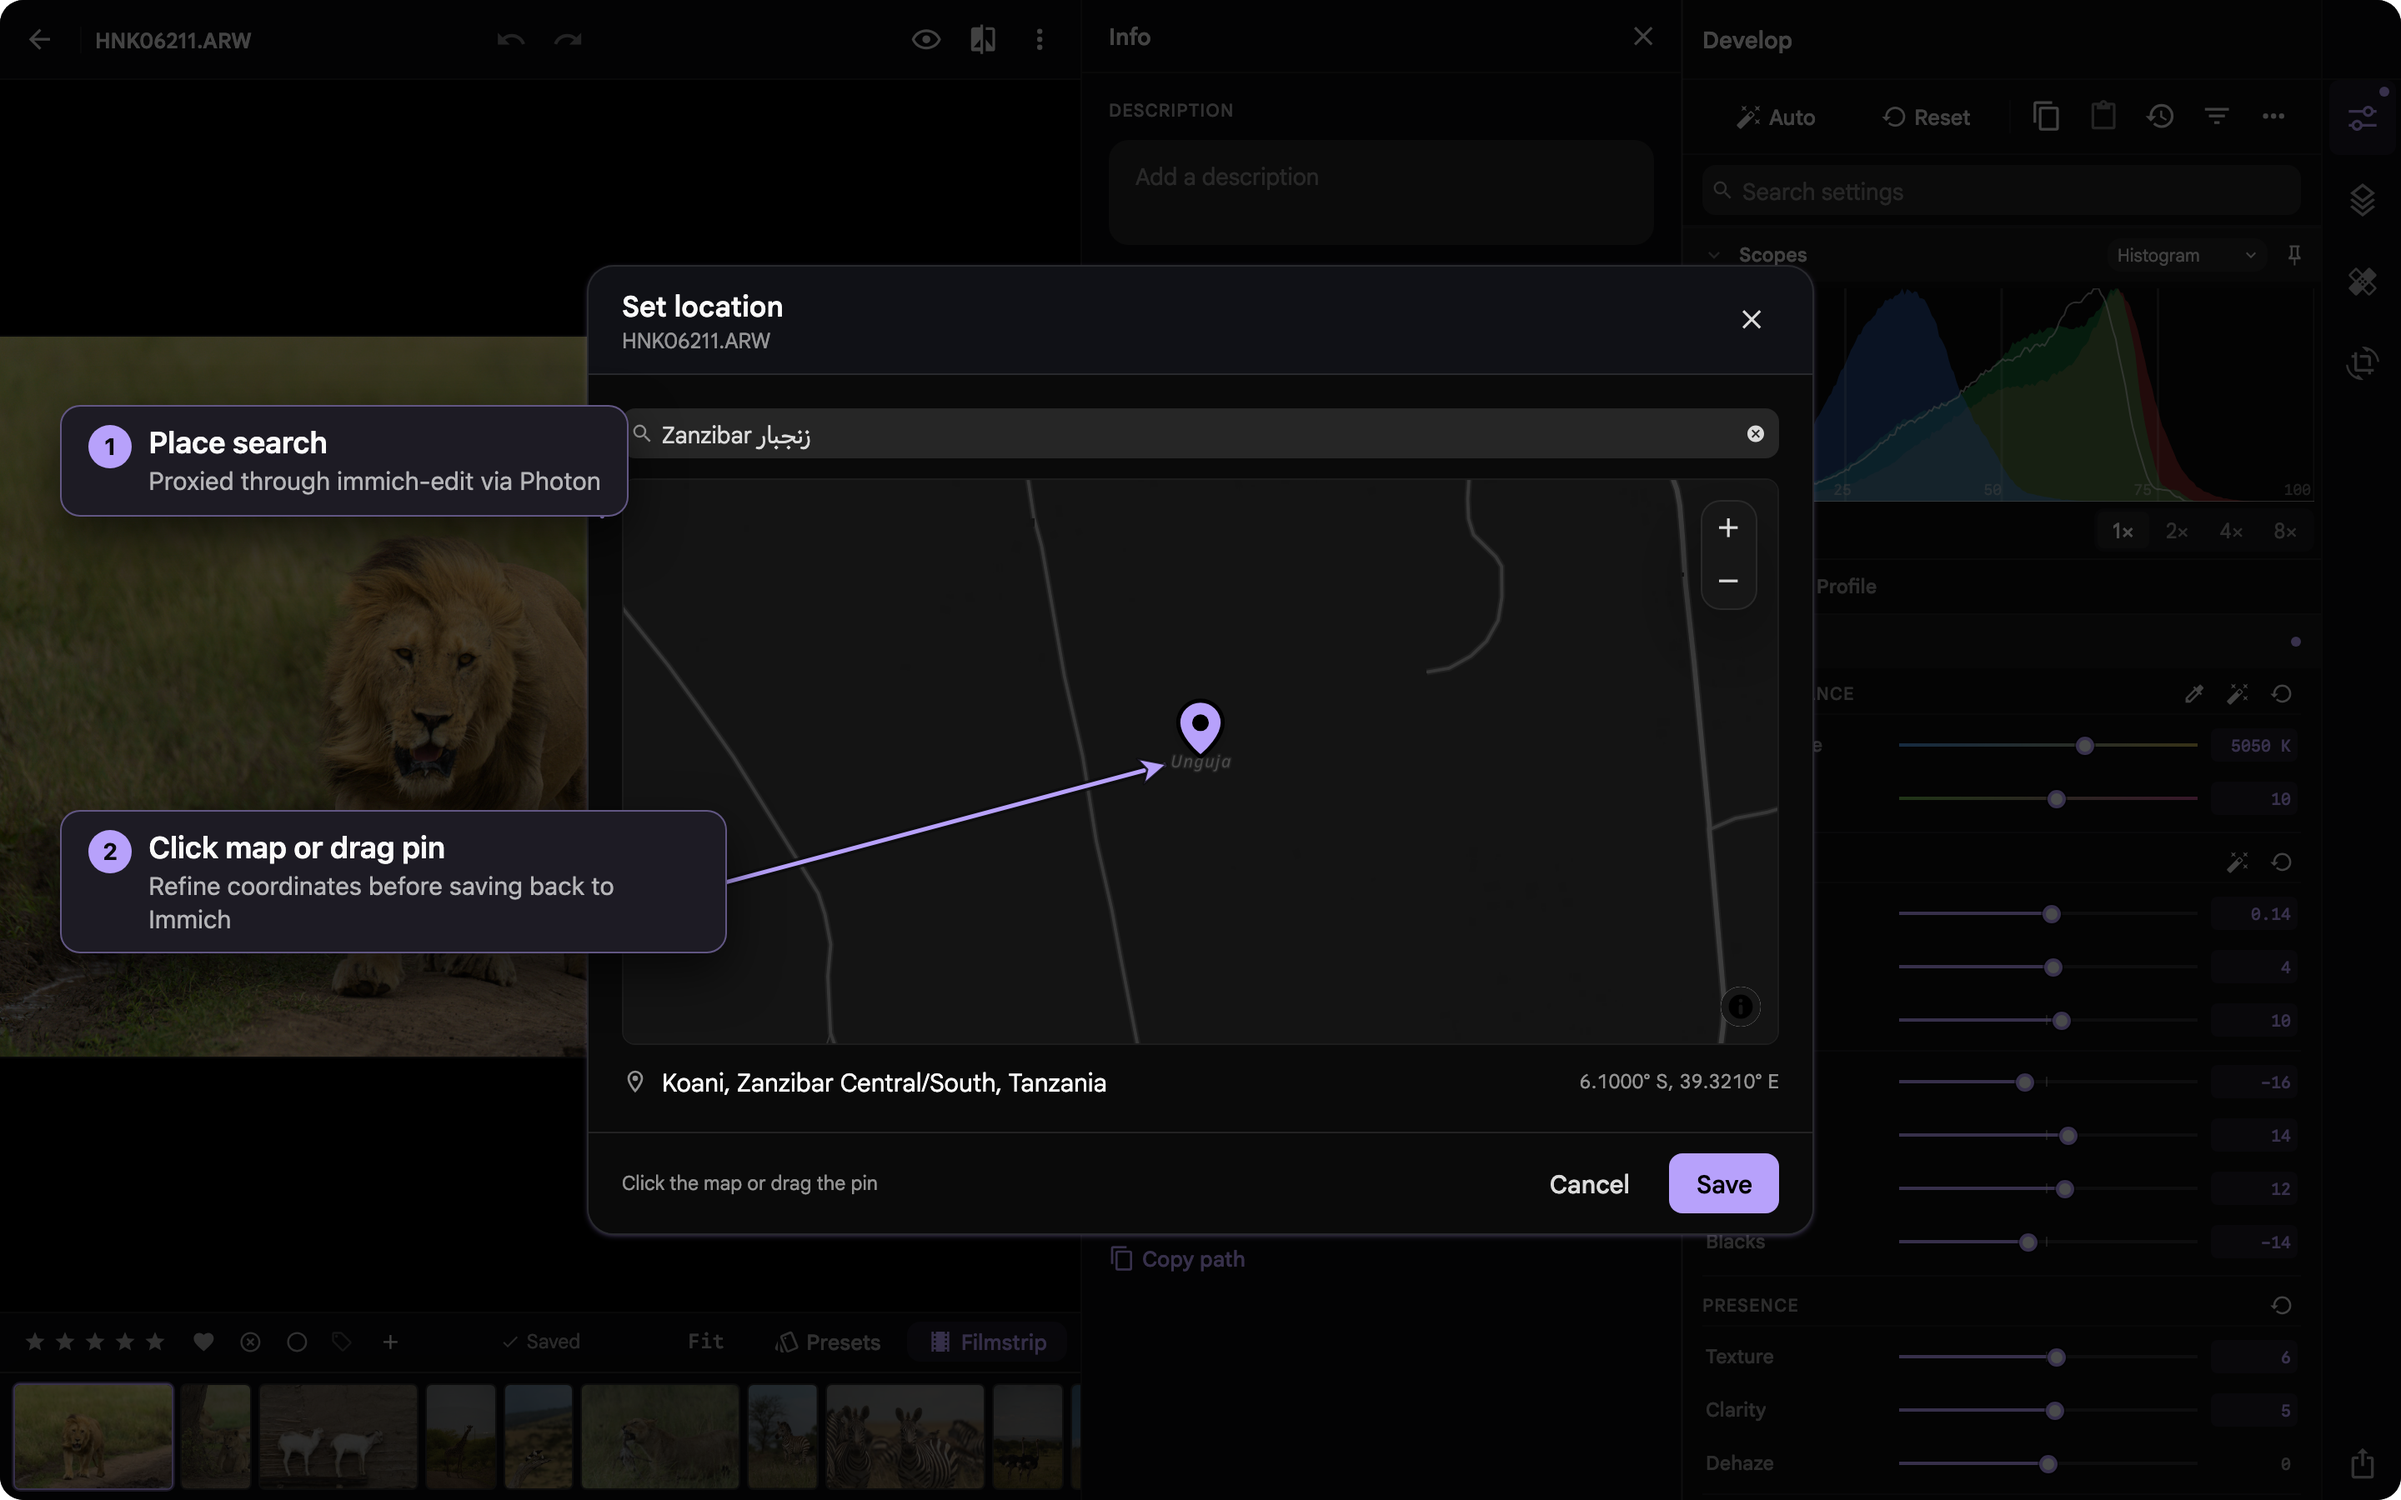
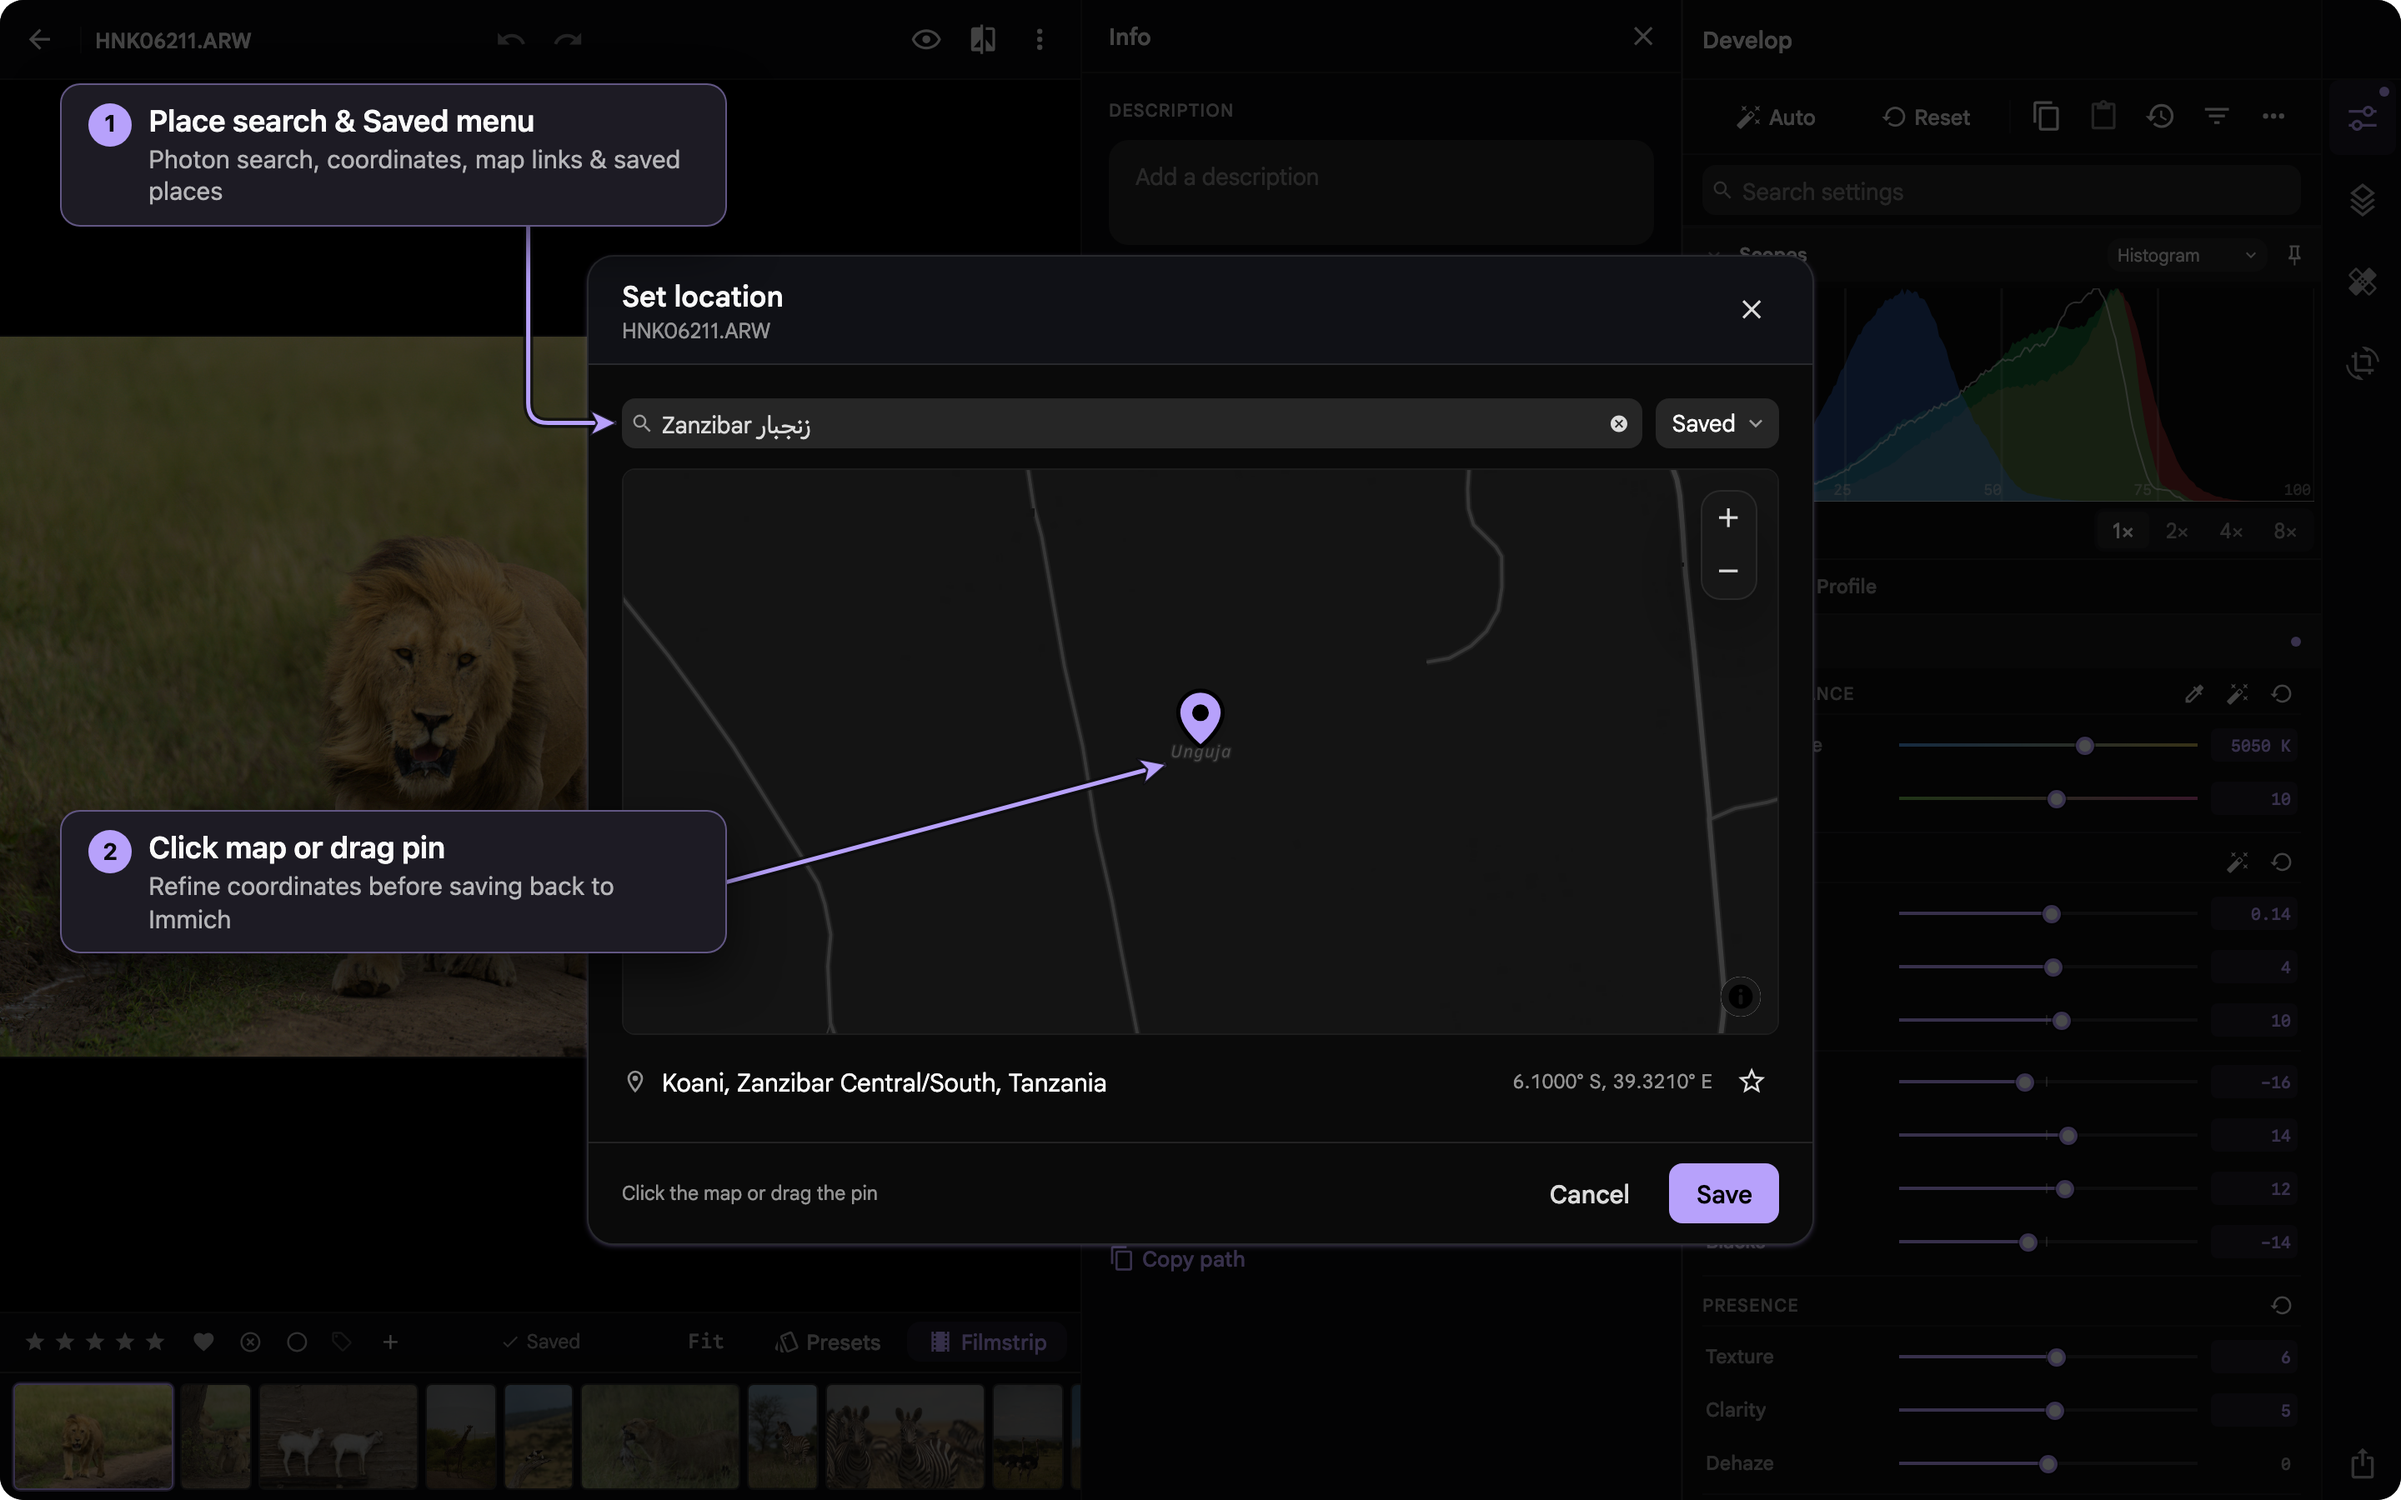
docs: update map guide and add track shot

diff --git a/docs/src/content/docs/editing/map.md b/docs/src/content/docs/editing/map.md
@@ -1,25 +1,24 @@
 ---
 title: Map and geotagging
-description: Browse geotagged photos on a map and set or move photo locations.
+description: Explore geotagged photos, save places, and match shoots to GPX, KML, or TCX tracks.
 ---
 
-Open **Map** from the sidebar (under **Library** > **Collections** on phones) to explore your
-geotagged library and assign missing locations.
+Open **Map** from the sidebar (under **Library** > **Collections** on phones) to browse geotagged
+photos, manage saved places, and assign missing locations.
 
 ## Browse the map
 
 - Clusters expand into individual photo markers as you zoom in.
-- Filter the map by **Favorites** and date range, or select **Fit all** to frame every matching
-  marker.
-- On desktop and landscape tablets, the side panel lists photos in the current map view; on phones
-  and portrait tablets, drag the bottom sheet up to browse them.
+- Filter by **Favorites** and date range, or select **Fit all** to frame every matching marker.
+- On desktop and landscape tablets, the side panel lists photos in view, unplaced photos, and saved
+  places; on phones and portrait tablets, tap the floating pill at the bottom to open them.
 - Open any photo in the loupe or editor and return directly to your map position.
 
 <!-- SCREENSHOT: capture.cjs map-desktop + compose.cjs map-desktop -->
 ![Desktop map view with date filter, photo clusters, and photos-in-view panel](../../../assets/shots/map-desktop.png)
 
 <!-- SCREENSHOT: capture.cjs map-phone + compose.cjs map-phone -->
-![Phone map view with clusters and expandable bottom sheet](../../../assets/shots/map-phone.png)
+![Phone map view with clusters and floating photos-in-view pill](../../../assets/shots/map-phone.png)
 
 ## Set or move locations
 
@@ -29,51 +28,52 @@ in bulk, so a location can be moved but not removed):
 - **Single photo**: open **Photo info** (`I`) to see the mini map, then choose **Set location** or
   **Edit location**. Search by place name or drag the pin, then select **Save**.
 - **Coordinates and map links**: paste coordinates (`60.3913, 5.3221` or `60°23'29"N 5°19'20"E`)
-  or a Google Maps, Apple Maps, OpenStreetMap or `geo:` link into the search field and choose
-  **Go to**. They are read in your browser, so this works even when place search is turned off.
-- **Multiple photos**: select photos in the grid and open **Location** in the bulk bar (or the
-  **More** sheet on touch), then **Choose on map**.
-- **Drag onto the map**: drag tiles from the map panel — including the **No location** tab — onto
-  the map to geotag them, or drag an existing marker to refine its position (press and hold first
-  on touch).
-- **Copy and paste**: copy a photo's location from **Photo info**, the **Location** menu or with
-  `Alt+Shift+C`, then paste it onto any selection with **Paste location** or `Alt+Shift+V`. The
-  copied place lasts until you close the tab, and its coordinates also land on the system clipboard
-  as text for other apps.
+  or a Google Maps, Apple Maps, OpenStreetMap, or `geo:` link into search and choose **Go to**
+  (parsed locally in your browser, even with place search disabled).
+- **Multiple photos**: select photos in the grid and open **Location** in the bulk bar (or **More**
+  on touch), then **Choose on map**.
+- **Drag onto the map**: drag tiles from **In view** or **No location** onto the map, or drag an
+  existing marker to refine it (press and hold first on touch).
+- **Copy and paste**: copy a photo's location from **Photo info**, the **Location** menu, or
+  `Alt+Shift+C`, then paste it onto any selection with **Paste location** or `Alt+Shift+V` (also
+  copies coordinates to the system clipboard).
 
 ## Saved and recent places
 
-- **Save a place**: in the location picker, select the star beside the place name, give it a
-  name and choose **Save place**. The star stays filled whenever the pin sits on a saved place.
-- **Use a place**: focus the search field to see your saved places and the last places you set,
-  or type part of a name. The **Location** menu in the bulk bar lists them too, so a selection
-  can be placed in one click.
-- **On the map**: saved places show as stars (toggle them with the star in the map header).
-  Photos dropped within a finger's width of a star land exactly on it, and selecting a star copies
-  its location or places the selected photos there.
+- **Save a place**: in the location picker, select the star beside the place name, name it, and
+  choose **Save place** — or select **New place** in the **Places** tab, or right-click (press and
+  hold on touch) anywhere on the map and choose **Save place here**.
+- **Reuse**: open **Saved** beside the search field, type part of a name, or pick a saved or recent
+  place directly from **Location** in the bulk bar.
+- **On the map**: toggle saved place stars from the map header. Photos dropped near a star snap to
+  it; selecting a star copies its location, moves or renames it, or places the current selection
+  there.
+- **Manage**: rename, move, or remove saved places and clear recent places from the **Places** tab
+  on **Map**. Saved and recent places sync across your devices.
 
 <!-- SCREENSHOT: capture.cjs location-desktop + compose.cjs location-desktop -->
 ![Set location dialog with Photon place search and draggable map pin](../../../assets/shots/location-desktop.png)
 
 ## Match photos to a track
 
-Place a whole shoot from a GPX, KML or TCX track recorded by a watch, phone app or GPS logger.
+Geotag still photos from a GPX, KML, or TCX track recorded by a watch, phone app, or GPS logger:
 
-1. Select the photos and choose **Location** > **Match to a track**, or select **Match track** in
-   the map header to work on every photo taken during the track.
-2. Drop one or more track files on the map, or choose them. Files are read in your browser and never
-   uploaded; only the locations you place are saved to Immich.
-3. Line up the camera clock. **Best fit** proposes the correction that puts the most photos on the
-   track, and you can adjust it by the minute or hour or type it (`-1:02:14`). Photos that recorded a
-   time zone are matched exactly; the others are read in the zone where the track was recorded,
-   which you can change if the camera was set to another one. The proposed pins move along the
-   track as you change the clock.
-4. Check the list: each photo says whether it lands on the track or how far before, after or between
-   track points it was taken. **Match within** sets how far from a track point a photo may be.
-   Hover a pin on the map to see its photo beside the pointer and highlighted in the list; click the
-   pin or a row to open the photo in the loupe, where the arrow keys step through the track's photos.
-5. Select **Place** to save the locations. Photos that already have one keep it unless you tick
-   **Also move**. **Undo** in the notification puts the previous locations back.
+1. Select photos and choose **Location** > **Match to a track**, or select **Match track** in the
+   map header to match every photo taken during the track.
+2. Drop or choose one or more track files (parsed locally in your browser; only saved coordinates
+   are sent to Immich).
+3. Align the camera clock: select **Use** on the **Best fit** bar to apply the suggested offset, or
+   expand the track row to adjust the time zone, per-camera clock correction (`-1:02:14`, with a
+   **Camera** picker when multiple cameras are present), and **Match within** gap. Unzoned photos
+   default to the track's time zone.
+4. Hover any pin or list row on desktop (tap once on touch) to preview the photo on the map; click
+   (tap again on touch) to open it in the loupe and step through the track with arrow keys.
+5. Select **Place** to save. Tick **Move … photos that already have a location** to overwrite
+   existing GPS coordinates, or **Correct the capture time of … photos** to write the clock
+   correction back to Immich; **Undo** restores both.
+
+<!-- SCREENSHOT: capture.cjs track-desktop + compose.cjs track-desktop -->
+![GPX track matching around Lake Magadi with hovered lion photo preview and matched photo list](../../../assets/shots/track-desktop.png)
 
 ## Tiles and privacy
 

diff --git a/docs/src/content/docs/reference/features.md b/docs/src/content/docs/reference/features.md
@@ -21,7 +21,7 @@ roadmap promise.
 | Map view of geotagged photos and photo info mini map | ✓ Yes | [Map and geotagging](../editing/map.md) |
 | Set, move, drag-drop, bulk, and copy/paste photo locations | ✓ Yes | Owned photos; Immich cannot clear GPS in bulk |
 | Saved and recent places, coordinates and map links in place search | ✓ Yes | [Map and geotagging](../editing/map.md#saved-and-recent-places) |
-| GPX, KML and TCX track matching with camera clock alignment | ✓ Yes | [Map and geotagging](../editing/map.md#match-photos-to-a-track) |
+| GPX, KML and TCX track matching with per-camera clock alignment and capture-time correction | ✓ Yes | [Map and geotagging](../editing/map.md#match-photos-to-a-track) |
 | Two-photo compare, 9-photo survey, face-aware zoom, peek (`W`) | ✓ Yes | Survey is desktop/tablet; phones use compare |
 | Virtual copies | ✓ Yes | Independent local edits sharing Immich metadata |
 | Move owned photos to Immich trash (with Undo) | ✓ Yes | Refused when Immich trash is disabled |
